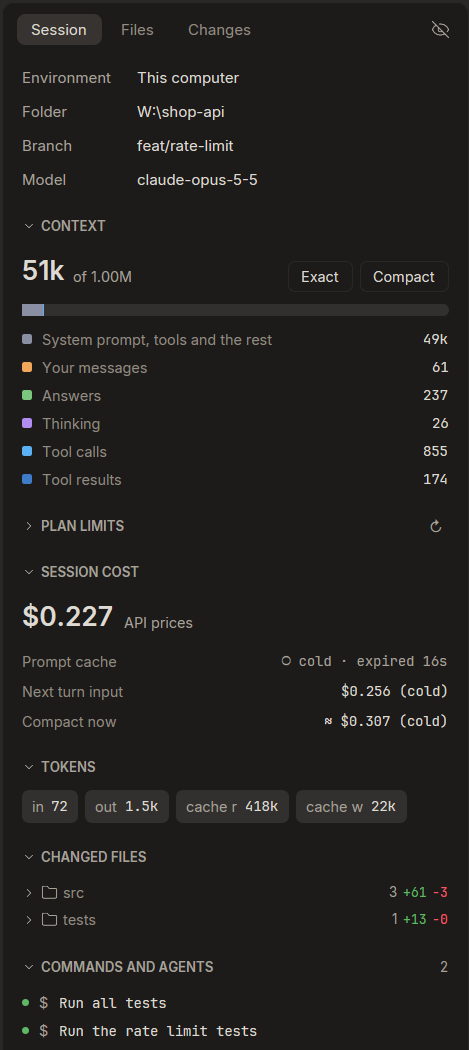
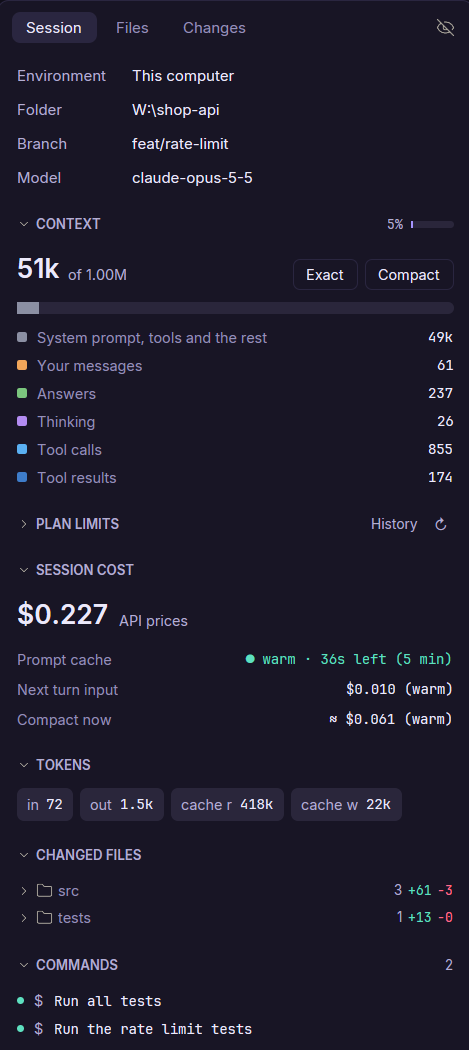
Snapshot of dc27110

diff --git a/README.md b/README.md
@@ -64,7 +64,7 @@
 ## Why Bowyer
 
 - **Every agent, one place.** Claude Code, Codex, OpenCode and DeepSeek each keep their history in their own folder, format and terminal. Bowyer reads all of them and shows every session you ever ran, on this machine and on your servers, in one searchable tree.
-- **Native and fast.** Rust from top to bottom and a GPU-rendered UI on GPUI. No Electron, no web view. Hundreds of sessions load in a moment and search as you type.
+- **Native and fast.** Rust from top to bottom and a GPU-rendered UI on GPUI. No Electron, no web view. Hundreds of sessions load in a moment, a session of hundreds of megabytes opens in about a second, and search answers as you type.
 - **Watch them all at once.** Mission control lays every running agent out in a grid of live cards and lets you answer a permission question without opening the session.
 - **Your files stay yours.** Bowyer only reads what the harnesses write. Folders, pins, names and notes live in Bowyer's own database; your agents keep working exactly as before, with or without the window open.
 - **See what a session really costs.** The context window split by what fills it, token totals, cost at API prices, and whether the prompt cache is still warm, so you know when compacting pays off.
@@ -77,37 +77,64 @@
   <tr>
     <td width="50%" valign="top">
       <h3>Every session in one tree</h3>
-      Sessions grouped by environment, harness and project (or any one of them), with your own folders, drag and drop, pins, renames and four sort orders, picked from lists at the bottom. Sub-agent and worktree sessions fold under the session that started them, and so do sessions Claude's desktop app started in a separate session. Long projects show the latest ten with <i>Show more</i>, and one button collapses everything. <i>Delete session</i> moves a Claude Code or Codex session into <code>~/.bowyer-trash</code> on its machine. Both side panels hide into thin stripes at the window's edges (<code>Ctrl+B</code>, <code>Ctrl+Alt+B</code>). Each harness has a pixel critter of its own, so a glance tells Claude Code from Codex or OpenCode. Live state for sessions running in a terminal elsewhere: <i>working</i>, <i>waiting</i> or <i>your turn</i>, with a taskbar flash when one needs you. <code>Ctrl+K</code> searches titles, prompts, folders and the whole conversation text (SQLite FTS5); each result shows the sentence where the words matched, with the words lit.
+      <ul>
+        <li>Grouped by environment, harness and project, or by any one of them, with your own folders, drag and drop, pins, renames and four sort orders.</li>
+        <li>Sub-agent and worktree sessions fold under the session that started them, and so do sessions Claude's desktop app started separately. Long projects show the latest ten with <i>Show more</i>, and one button collapses everything.</li>
+        <li>Each harness has a pixel critter of its own, so a glance tells Claude Code from Codex or OpenCode.</li>
+        <li>Sessions running in a terminal elsewhere show <i>working</i>, <i>waiting</i> or <i>your turn</i>, and the taskbar flashes when one needs you.</li>
+        <li><code>Ctrl+K</code> searches titles, prompts, folders and the whole conversation text (SQLite FTS5); each result shows the sentence where the words matched.</li>
+        <li><i>Delete session</i> moves a Claude Code or Codex session into <code>~/.bowyer-trash</code> on its machine. Both side panels hide into thin stripes at the window's edges (<code>Ctrl+B</code>, <code>Ctrl+Alt+B</code>).</li>
+      </ul>
     </td>
     <td width="50%" valign="top">
-      <img src=".github/readme/tree.png" alt="The session tree: This computer, then Claude Code, OpenCode and Codex, then projects; under shop-api a Claude Code session with three agent sessions nested under it">
+      <img src=".github/readme/tree.png" alt="The session tree in the Nightfall theme: This computer, then Claude Code, OpenCode and Codex, then projects, each session with its harness's pixel critter; under shop-api a Claude Code session marked your turn with three agent sessions nested under it">
     </td>
   </tr>
   <tr>
     <td width="50%" valign="top">
-      <img src=".github/readme/chat-light.png" alt="A conversation in the Light theme with folded thinking, a one-line summary of seven tool calls, highlighted code and a follow-up turn">
+      <img src=".github/readme/chat-light.png" alt="A conversation in the Light theme with folded thinking, a one-line summary of seven tool calls, highlighted Rust code and a follow-up turn">
     </td>
     <td width="50%" valign="top">
       <h3>A chat, not a terminal dump</h3>
-      Markdown, highlighted code blocks with Copy and Run, folded thinking, and tool calls folded into one line per run that open into commands, output and diffs. Background task notices fold into a short line, and so do what a hook told the model and the long summary a harness writes when it compacts the context. Paste screenshots, drop files, <code>/</code> for commands and skills (the user's, the project's and those of plugins turned on, with their descriptions), <code>@</code> for files of the session's folder. Select text across messages and ask about it. Claude Code and OpenCode ask before a command or edit their settings don't allow, right in the window, and Claude's questions come with their choices and a field for your own answer. Send another prompt while a turn runs and it goes next, or straight in while Claude Code waits for a command it left in the background (shown above the composer, each with its own stop); <i>Stop</i> belongs to its session. The view stays where you read while new text arrives, with a scrollbar you can drag and a button that takes you back to the end. <i>Branch from here</i> under a prompt of a Claude Code session starts a new session from the conversation before it, and <i>Changes of this turn</i> shows what the answer did to each file, from Claude Code's own backups, with an undo of the whole turn (what the files were goes to the trash first). A prompt that never reached the model (a wrong model, the wrong session) can be deleted: Claude Code resumes from the answer before it.
+      <ul>
+        <li>Markdown, highlighted code with Copy and Run, folded thinking, and tool calls folded into one line per run that opens into the commands, their output and the diffs.</li>
+        <li>Background task notices, what a hook told the model and the summary a harness writes when it compacts the context each shrink to one short line.</li>
+        <li>Paste screenshots, drop files, <code>/</code> for commands and skills (yours, the project's and those of plugins turned on, with their descriptions), <code>@</code> for files of the session's folder. Select text across messages and ask about it.</li>
+        <li>Claude Code and OpenCode ask before a command or an edit their settings don't allow, right in the window; Claude's questions come with their choices and a field for your own answer.</li>
+        <li>Send another prompt while a turn runs and it goes next, or straight in while Claude Code waits for a command it left in the background (listed above the composer, each with its own stop).</li>
+        <li><i>Branch from here</i> under a prompt of a Claude Code session starts a new session from the conversation before it. <i>Changes of this turn</i> shows what the answer did to each file, from Claude Code's own backups, and undoes the whole turn (the files as they are go to the trash first).</li>
+        <li>The view stays where you read while new text arrives, with a scrollbar you can drag and a button back to the end. A prompt that never reached the model can be deleted, and Claude Code resumes from the answer before it.</li>
+      </ul>
     </td>
   </tr>
   <tr>
     <td width="50%" valign="top">
       <h3>What a session holds</h3>
-      Environment, folder, Git branch (worktrees too) and model. The context window split by what fills it: for Claude Code exactly as Claude counts it, with system prompt, tools, MCP servers, skills and messages. The plan's five-hour and weekly limits, asked from Claude Code without a model call, or an API account's spending this month. Token totals, cost at API prices per call, the price of the next turn and of a compaction at the current cache state, and a countdown for the prompt cache. Every file the session changed as a tree, every command it ran, and the sub-agents it started in a list of their own, the latest ten first. Each section folds by its title; the context title keeps a small gauge of how full the window is.
+      <ul>
+        <li>Environment, folder, Git branch (worktrees too) and model.</li>
+        <li>The context window split by what fills it; for Claude Code exactly as Claude counts it, with system prompt, tools, MCP servers, skills and messages.</li>
+        <li>The plan's five-hour and weekly limits, asked from Claude Code without a model call, or an API account's spending this month, with 30 days of history.</li>
+        <li>Token totals, cost at API prices per call, the price of the next turn and of a compaction at the current cache state, and a countdown for the prompt cache.</li>
+        <li>Every file the session changed as a tree, every command it ran, and the sub-agents it started, the latest ten first.</li>
+        <li>Each section folds by its title; the context title keeps a small gauge of how full the window is.</li>
+      </ul>
     </td>
     <td width="50%" valign="top">
-      <img src=".github/readme/session.png" alt="The Session panel with folding sections: context 51k of 1M split into six parts, plan limits folded, session cost $0.227, token totals, changed files and commands" width="60%">
+      <img src=".github/readme/session.png" alt="The Session panel in the Nightfall theme with folding sections: context 51k of 1M split into six parts, plan limits folded, session cost $0.227 with a warm prompt cache, token totals, changed files and commands" width="60%">
     </td>
   </tr>
   <tr>
     <td width="50%" valign="top">
-      <img src=".github/readme/diff.png" alt="A diff of checkout.rs from the Changes tab with Stage and Discard for the hunk">
+      <img src=".github/readme/diff.png" alt="A diff of checkout.rs from the Changes tab in the Nightfall theme, with Stage and Discard for the hunk and Stage file for the whole file">
     </td>
     <td width="50%" valign="top">
       <h3>Files, Git and a terminal</h3>
-      A Files tab with the folder's tree and a preview of text and pictures, locally or over SSH. A Changes tab with staged and unstaged files, diffs by hunk with Stage, Unstage and Discard, commit, fetch, pull, push and branch switching. Built-in terminals (<code>Ctrl+`</code>) open as tabs in a panel under the conversation, in the session's folder, here or on the SSH host, so you never hunt for the right window to resume a session. Each session keeps its own terminals, and on Windows the list next to <b>+</b> opens PowerShell, Command Prompt, Git Bash or WSL. Claude Code sessions here connect to the IDE that has their folder open (Arro, VS Code, JetBrains).
+      <ul>
+        <li>A Files tab with the folder's tree and a preview of text and pictures, locally or over SSH.</li>
+        <li>A Changes tab with staged and unstaged files, diffs by hunk with Stage, Unstage and Discard, commit, fetch, pull, push and branch switching.</li>
+        <li>Built-in terminals (<code>Ctrl+`</code>) open as tabs under the conversation, in the session's folder, here or on the SSH host. Each session keeps its own, and on Windows the list next to <b>+</b> opens PowerShell, Command Prompt, Git Bash or WSL.</li>
+        <li>Claude Code sessions here connect to the IDE that has their folder open (Arro, VS Code, JetBrains).</li>
+      </ul>
     </td>
   </tr>
 </table>
@@ -197,7 +224,7 @@ The binary is `bowyer`. `--data-dir <folder>` keeps the database somewhere else,
 | SSH hosts: sessions, files, Git, terminal, live turns | ✅ Works |
 | Git changes, built-in terminal | ✅ Works |
 | Memory MCP server | 🚧 New |
-| Plan limits and monthly spending | 🚧 New |
+| Plan limits, spending and its 30-day history | 🚧 New |
 | Updates from a signed feed | 🚧 New |
 | Windows 11 x86-64 | ✅ Supported |
 | Linux x86-64 | 🚧 Preview release |
